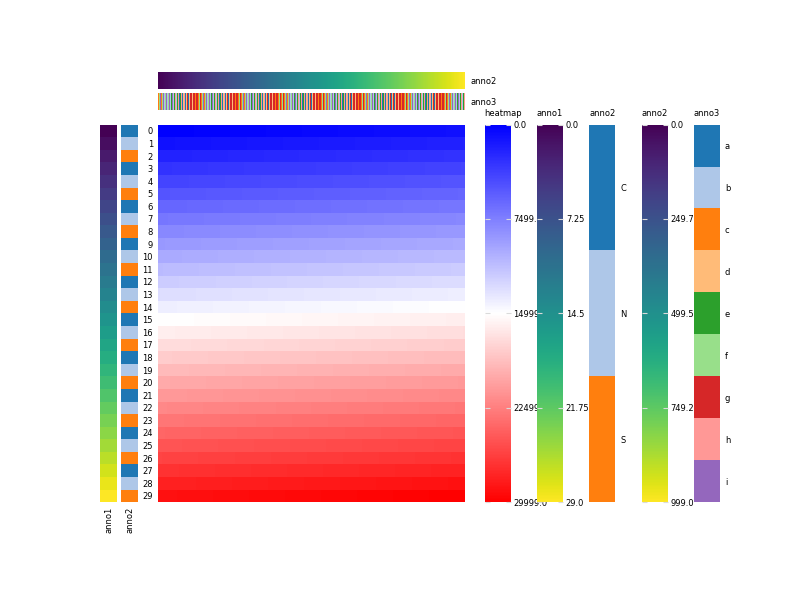
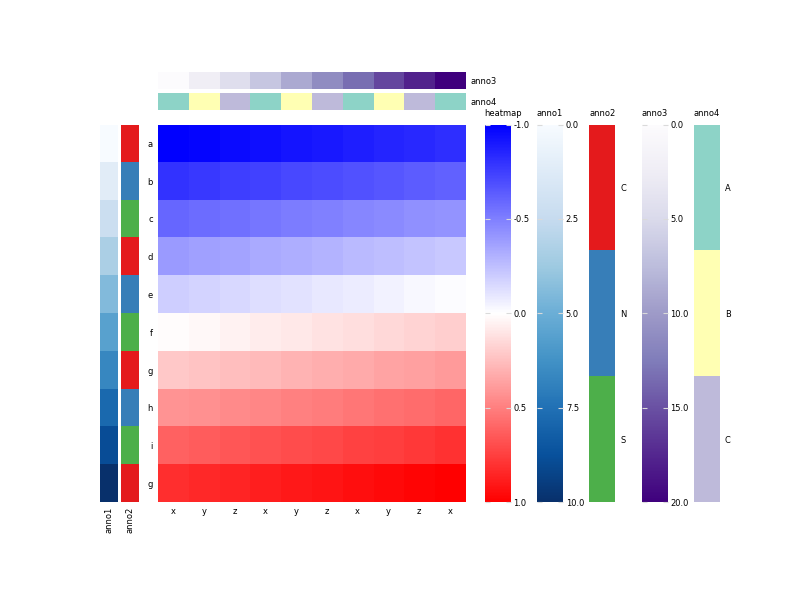
📃 docs(README): Update README

diff --git a/README.md b/README.md
@@ -15,22 +15,30 @@ import numpy as np
 import pandas as pd
 from pheatmap import pheatmap
 
-nrows = 30
-mat = pd.DataFrame(np.arange(nrows * 1000).reshape(-1, 1000))
-anno_row = pd.DataFrame(
-    dict(anno1=np.arange(nrows), anno2=["CNS"[i % 3] for i in np.arange(nrows)])
-)
-anno_col = pd.DataFrame(
-    dict(anno2=np.arange(1000), anno3=["abcdefghigk"[i % 10] for i in np.arange(1000)])
-)
+nrows, ncols = 10, 10
+mat = np.linspace(-1, 1, nrows * ncols).reshape(nrows, ncols)
+rownames = ["abcdefghig"[i % 10] for i in np.arange(nrows)]
+colnames = ["xyz"[i % 3] for i in np.arange(ncols)]
+
+mat = pd.DataFrame(mat, index=rownames, columns=colnames)
+
+anno_row = pd.DataFrame(dict(
+    anno1=np.linspace(0, 10, nrows),
+    anno2=["CNS"[i % 3] for i in np.arange(nrows)]
+))
+anno_col = pd.DataFrame(dict(
+    anno3=np.linspace(0, 20, ncols),
+    anno4=["ABC"[i % 3] for i in np.arange(ncols)]
+))
+
+anno_row_cmaps = {"anno1": "Blues", "anno2": "Set1"}
+anno_col_cmaps = {"anno3": "Purples", "anno4": "Set3"}
+
 fig = pheatmap(
-    mat,
-    annotation_row=anno_row,
-    annotation_col=anno_col,
-    show_colnames=False
+    self.mat, annotation_row=self.anno_row, annotation_col=self.anno_col,
+    annotation_row_cmaps=self.anno_row_cmaps, annotation_col_cmaps=self.anno_col_cmaps
 )
-plt.figure(fig)
-plt.show()
+fig.savefig("tests/pheatmap.png")
 ```
 
 Run the above code at the ipython or jupyter notebook. You can see the fellow heatmap with its
